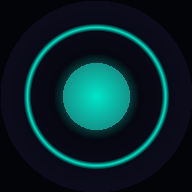
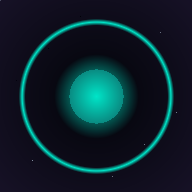
Add files via upload

diff --git a/game.js b/game.js
@@ -223,7 +223,7 @@ function renderStates(){
   col.innerHTML=states.map(s=>{
     const pct=Math.max(0,Math.min(100,s.val));
     const color=s.bad?'#e05a6a':pct>60?'#00e5c8':'#c9a84c';
-    return `<div class="state-item${s.bad?' state-bad':''}"><span class="state-icon" style="color:${color}">${s.icon}</span><div class="state-bar-wrap"><div class="state-bar-fill" style="width:${pct}%;background:${color}"></div></div></div>`;
+    return `<div class="state-item${s.bad?' state-bad':''}"><span class="state-icon">${s.icon}</span><div class="state-bar-wrap"><div class="state-bar-fill" style="width:${pct}%;background:${color}"></div></div></div>`;
   }).join('');
 }
 